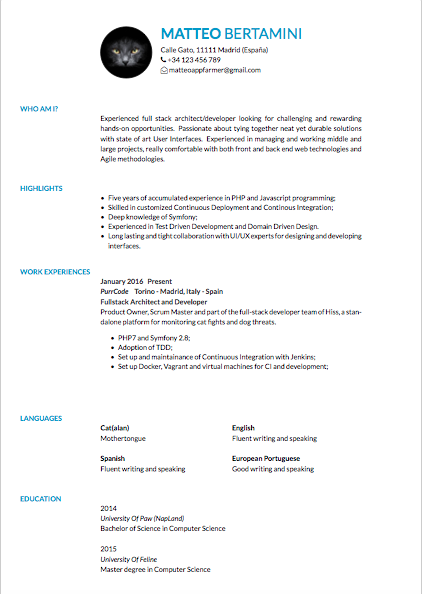
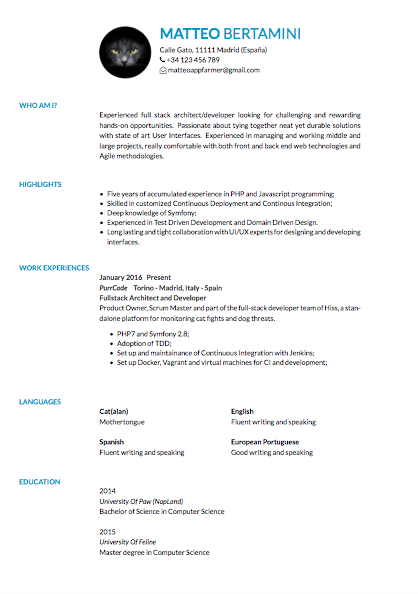
removed inaesthetic vertical space

diff --git a/bertuzcv.tex b/bertuzcv.tex
@@ -47,7 +47,6 @@
       {Set up and maintainance of Continuous Integration with Jenkins;}
       {Set up Docker, Vagrant and virtual machines for CI and development;}
     \end{workExp}
-    \vspace{0.6cm}
   \end{cvbox}
 
   \begin{cvbox}{Languages}
